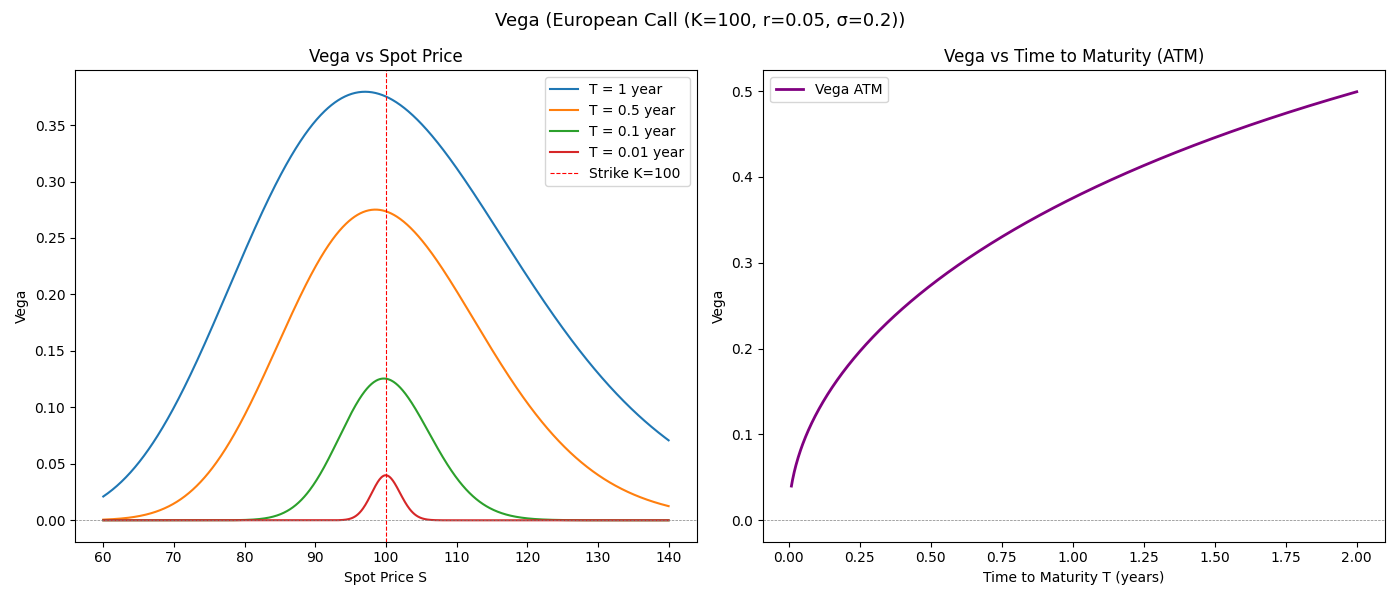
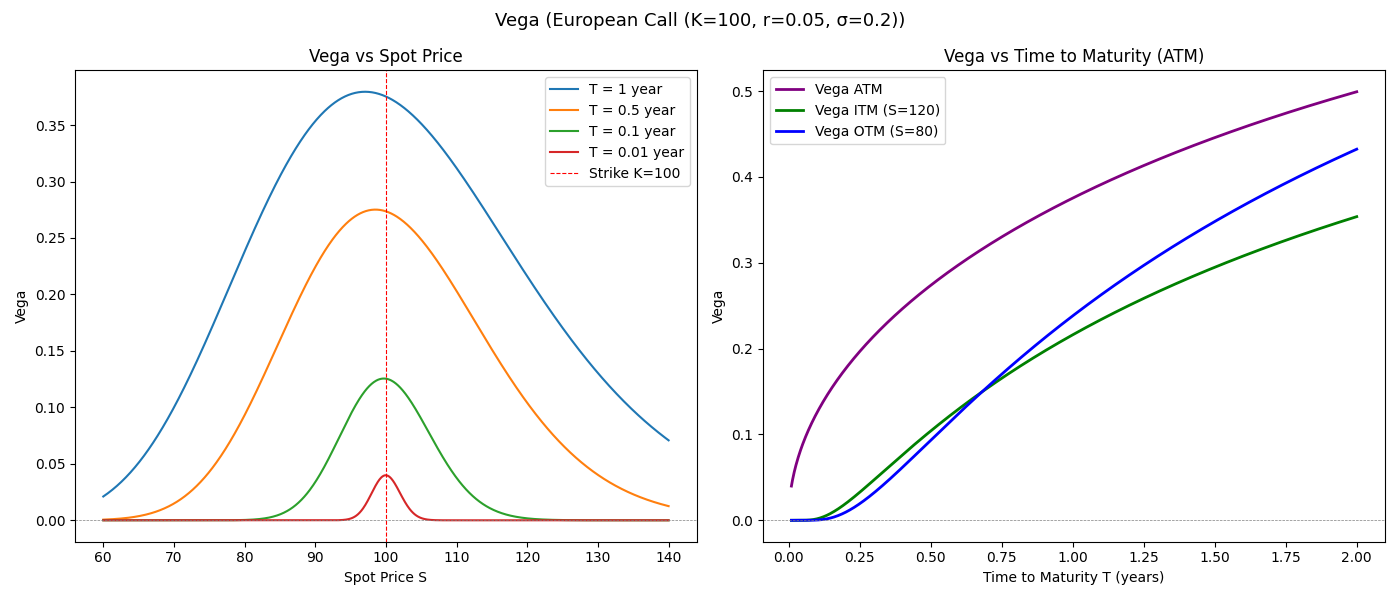
feat: implement Monte Carlo methods, terminal pricer, and documentation

diff --git a/Phase 1/src/monteCarlo.py b/Phase 1/src/monteCarlo.py
@@ -1,0 +1,206 @@
+from scipy.stats import norm
+import numpy as np
+import matplotlib.pyplot as plt
+from pathlib import Path
+
+from option import Option
+from pricer import BSModel
+
+REPORTS = Path(__file__).parent.parent / "reports"
+
+def mc_naive(opt : Option, n_paths : int = 100000) -> float:
+    """Monte Carlo pricer for European vanilla options."""
+    # Simulate terminal spot price
+    S_T = opt.S * np.exp((opt.r - 0.5 * opt.sigma ** 2) * opt.T + opt.sigma * np.sqrt(opt.T) * norm.rvs(size=n_paths))
+    # Compute payoff and discount
+    if opt.kind == 'call':
+        Discounted_payoff =np.exp(-opt.r * opt.T) * np.maximum(S_T - opt.K, 0)
+    else:
+        Discounted_payoff = np.exp(-opt.r * opt.T) * np.maximum(opt.K - S_T, 0)
+    return float(np.mean(Discounted_payoff)), np.std(Discounted_payoff)/ np.sqrt(n_paths)
+
+
+def mc_antithetic(opt : Option, n_paths : int = 100000) -> float:
+    """Monte Carlo pricer with antithetic variates."""
+    # Simulate terminal spot price
+    Z = norm.rvs(size=n_paths//2)
+    S_T1 = opt.S * np.exp((opt.r - 0.5 * opt.sigma ** 2) * opt.T + opt.sigma * np.sqrt(opt.T) * Z)
+    S_T2 = opt.S * np.exp((opt.r - 0.5 * opt.sigma ** 2) * opt.T - opt.sigma * np.sqrt(opt.T) * Z)
+    # Compute payoff and discount
+    if opt.kind == 'call':
+        Payoff1 = np.maximum(S_T1 - opt.K, 0)
+        Payoff2 = np.maximum(S_T2 - opt.K, 0)
+    else:
+        Payoff1 = np.maximum(opt.K - S_T1, 0)
+        Payoff2 = np.maximum(opt.K - S_T2, 0)
+    Discounted_payoff = np.exp(-opt.r * opt.T) * (Payoff1 + Payoff2) / 2
+    return float(np.mean(Discounted_payoff)), np.std(Discounted_payoff)/ np.sqrt(n_paths)
+
+def mc_control(opt : Option, n_paths : int = 100000) -> float:
+    """Monte Carlo pricer with control variates."""
+    # Simulate terminal spot price
+    S_T = opt.S * np.exp((opt.r - 0.5 * opt.sigma ** 2) * opt.T + opt.sigma * np.sqrt(opt.T) * norm.rvs(size=n_paths))
+    # Compute payoff and discount
+    if opt.kind == 'call':
+        Payoff = np.maximum(S_T - opt.K, 0)
+        Control = S_T
+        Control_mean = opt.S  
+    else:
+        Payoff = np.maximum(opt.K - S_T, 0)
+        Control = S_T
+        Control_mean = opt.S
+    # Compute control variate coefficient
+    cov = np.cov(Payoff, Control)[0][1]
+    var_control = np.var(Control)
+    beta = cov / var_control if var_control > 0 else 0
+    # Adjust payoff with control variate
+    Discounted_Adjusted_payoff = np.exp(-opt.r * opt.T) * Payoff - beta * (np.exp(-opt.r * opt.T) * Control - Control_mean)
+    return float(np.mean(Discounted_Adjusted_payoff)), np.std(Discounted_Adjusted_payoff)/ np.sqrt(n_paths)
+
+
+def mc_control_antithetic(opt : Option, n_paths : int = 100000) -> float:
+    """Monte Carlo pricer with control variates and antithetic variates."""
+    # Simulate terminal spot price
+    Z = norm.rvs(size=n_paths//2)
+    S_T1 = opt.S * np.exp((opt.r - 0.5 * opt.sigma ** 2) * opt.T + opt.sigma * np.sqrt(opt.T) * Z)
+    S_T2 = opt.S * np.exp((opt.r - 0.5 * opt.sigma ** 2) * opt.T - opt.sigma * np.sqrt(opt.T) * Z)
+    # Compute payoff and discount
+    if opt.kind == 'call':
+        Payoff1 = np.maximum(S_T1 - opt.K, 0)
+        Payoff2 = np.maximum(S_T2 - opt.K, 0)
+        Control1 = S_T1
+        Control2 = S_T2
+        Control_mean = opt.S  
+    else:
+        Payoff1 = np.maximum(opt.K - S_T1, 0)
+        Payoff2 = np.maximum(opt.K - S_T2, 0)
+        Control1 = S_T1
+        Control2 = S_T2
+        Control_mean = opt.S
+    # Compute control variate coefficient
+    Payoff_combined = (Payoff1 + Payoff2) / 2
+    Control_combined = (Control1 + Control2) / 2
+    cov = np.cov(Payoff_combined, Control_combined)[0][1]
+    var_control = np.var(Control_combined)
+    beta = cov / var_control if var_control > 0 else 0
+    # Adjust payoff with control variate
+    Discounted_Adjusted_payoff = np.exp(-opt.r * opt.T) * Payoff_combined - beta * (np.exp(-opt.r * opt.T) * Control_combined - Control_mean)
+    return float(np.mean(Discounted_Adjusted_payoff)), np.std(Discounted_Adjusted_payoff)/ np.sqrt(n_paths)
+
+if __name__ == "__main__":
+    opt = Option(S=100, K=100, T=1, r=0.05, sigma=0.2, kind='call')
+    n_paths = 100000
+
+    print(f"----------------- Naive Monte Carlo pricing with {n_paths} paths -----------------")
+    price, std_error = mc_naive(opt, n_paths)
+    print(f"Monte Carlo price: {price:.4f}")
+    print(f"Standard error: {std_error:.4f}")
+
+    # Compare with BSM price
+    model = BSModel()
+    bsm_price = model.price(opt)
+    print(f"BSM price: {bsm_price:.4f}")
+
+    # Difference
+    print(f"Difference: {abs(price - bsm_price):.4f}, Relative Difference: {abs(price - bsm_price)/bsm_price:.4%}")
+
+    # Standard error of the Monte Carlo estimate
+    for path in [1000, 10000, 100000, 1000000]:
+        price, std_error = mc_naive(opt, path)
+        print(f"Standard error of Monte Carlo estimate: {std_error:.4f}, with {path} paths")
+
+    # Plot the difference as we increase the number of paths
+    path_counts = [100, 500, 1000, 5000, 10000, 50000, 100000, 500000, 1000000, 5000000, 10000000]
+    mc_diffs = [abs(mc_naive(opt, n)[0] - bsm_price)/bsm_price *100 for n in path_counts]
+    plt.plot(path_counts, mc_diffs, marker='o', label='Monte Carlo difference')
+    plt.xscale('log')
+    plt.xlabel('Number of Paths')
+    plt.ylabel('Relative Difference from BSM Price (%)')
+    plt.title('Monte Carlo Price Convergence')
+    plt.legend()
+    plt.savefig(REPORTS / "monte_carlo_convergence_naive.png")
+    plt.show()
+
+
+    print(f"----------------- Antithetic Monte Carlo pricing with {n_paths} paths -----------------")
+    price, std_error = mc_antithetic(opt, n_paths)
+    print(f"Monte Carlo price: {price:.4f}")
+    print(f"Standard error: {std_error:.4f}")
+
+    # Compare with BSM price
+    print(f"BSM price: {bsm_price:.4f}")
+
+    # Difference
+    print(f"Difference: {abs(price - bsm_price):.4f}, Relative Difference: {abs(price - bsm_price)/bsm_price:.4%}")
+
+    # Standard error of the Monte Carlo estimate
+    for path in [1000, 10000, 100000, 1000000]:
+        price, std_error = mc_antithetic(opt, path)
+        print(f"Standard error of Monte Carlo estimate: {std_error:.4f}, with {path} paths")
+
+    # Plot the difference as we increase the number of paths
+    path_counts = [100, 500, 1000, 5000, 10000, 50000, 100000, 500000, 1000000, 5000000, 10000000]
+    mc_diffs = [abs(mc_antithetic(opt, n)[0] - bsm_price)/bsm_price *100 for n in path_counts]
+    plt.plot(path_counts, mc_diffs, marker='o', label='Monte Carlo difference')
+    plt.xscale('log')
+    plt.xlabel('Number of Paths')
+    plt.ylabel('Relative Difference from BSM Price (%)')
+    plt.title('Monte Carlo Price Convergence')
+    plt.legend()
+    plt.savefig(REPORTS / "monte_carlo_convergence_antithetic.png")
+    plt.show()
+
+
+    print(f"----------------- Control Variate Monte Carlo pricing with {n_paths} paths -----------------")
+    price, std_error = mc_control(opt, n_paths)
+    print(f"Monte Carlo price: {price:.4f}")
+    print(f"Standard error: {std_error:.4f}")
+    # Compare with BSM price
+    print(f"BSM price: {bsm_price:.4f}")
+
+    # Difference
+    print(f"Difference: {abs(price - bsm_price):.4f}, Relative Difference: {abs(price - bsm_price)/bsm_price:.4%}")
+
+    # Standard error of the Monte Carlo estimate
+    for path in [1000, 10000, 100000, 1000000]:
+        price, std_error = mc_control(opt, path)
+        print(f"Standard error of Monte Carlo estimate: {std_error:.4f}, with {path} paths")
+
+    # Plot the difference as we increase the number of paths
+    path_counts = [100, 500, 1000, 5000, 10000, 50000, 100000, 500000, 1000000, 5000000, 10000000]
+    mc_diffs = [abs(mc_control(opt, n)[0] - bsm_price)/bsm_price *100 for n in path_counts]
+    plt.plot(path_counts, mc_diffs, marker='o', label='Monte Carlo difference')
+    plt.xscale('log')
+    plt.xlabel('Number of Paths')
+    plt.ylabel('Relative Difference from BSM Price (%)')
+    plt.title('Monte Carlo Price Convergence')
+    plt.legend()
+    plt.savefig(REPORTS / "monte_carlo_convergence_control.png")
+    plt.show()
+
+    print(f"----------------- Control and Antithetic Variate Monte Carlo pricing with {n_paths} paths -----------------")
+    price, std_error = mc_control_antithetic(opt, n_paths)
+    print(f"Monte Carlo price: {price:.4f}")
+    print(f"Standard error: {std_error:.4f}")
+    # Compare with BSM price
+    print(f"BSM price: {bsm_price:.4f}")
+
+    # Difference
+    print(f"Difference: {abs(price - bsm_price):.4f}, Relative Difference: {abs(price - bsm_price)/bsm_price:.4%}")
+
+    # Standard error of the Monte Carlo estimate
+    for path in [1000, 10000, 100000, 1000000]:
+        price, std_error = mc_control_antithetic(opt, path)
+        print(f"Standard error of Monte Carlo estimate: {std_error:.4f}, with {path} paths")
+
+    # Plot the difference as we increase the number of paths
+    path_counts = [100, 500, 1000, 5000, 10000, 50000, 100000, 500000, 1000000, 5000000, 10000000]
+    mc_diffs = [abs(mc_control_antithetic(opt, n)[0] - bsm_price)/bsm_price *100 for n in path_counts]
+    plt.plot(path_counts, mc_diffs, marker='o', label='Monte Carlo difference')
+    plt.xscale('log')
+    plt.xlabel('Number of Paths')
+    plt.ylabel('Relative Difference from BSM Price (%)')
+    plt.title('Monte Carlo Price Convergence')
+    plt.legend()
+    plt.savefig(REPORTS / "monte_carlo_convergence_control_antithetic.png")
+    plt.show()

diff --git a/Phase 1/src/pricerTerminal.py b/Phase 1/src/pricerTerminal.py
@@ -1,0 +1,70 @@
+import argparse
+import sys
+from pathlib import Path
+
+sys.path.insert(0, str(Path(__file__).parent))
+
+from option import Option
+from pricer import BSModel
+
+
+def parse_args():
+    parser = argparse.ArgumentParser(
+        prog="pricer_terminal",
+        description="Pricing Engine — valorisation d'options européennes",
+        formatter_class=argparse.RawDescriptionHelpFormatter,
+        epilog="""
+        méthodes disponibles:
+        bs              Formule analytique Black-Scholes-Merton
+        mc-naive        Monte Carlo naïf
+        mc-antithetic   Monte Carlo avec variables antithétiques
+        mc-control               Monte Carlo avec variable de contrôle
+        mc-control-antithetic    Monte Carlo antithétique + variable de contrôle
+
+        exemples:
+        python pricer_terminal.py --S 100 --K 100 --T 1 --r 0.05 --sigma 0.2 --kind call
+        python pricer_terminal.py --S 100 --K 100 --T 1 --r 0.05 --sigma 0.2 --kind put --method mc-antithetic --n-paths 200000
+                """,
+    )
+
+    parser.add_argument("--S",       type=float, required=True, metavar="SPOT",   help="Prix spot du sous-jacent")
+    parser.add_argument("--K",       type=float, required=True, metavar="STRIKE", help="Prix d'exercice")
+    parser.add_argument("--T",       type=float, required=True, metavar="YEARS",  help="Maturité en années (ex: 0.5, 1)")
+    parser.add_argument("--r",       type=float, required=True, metavar="RATE",   help="Taux sans risque continu (ex: 0.05)")
+    parser.add_argument("--sigma",   type=float, required=True, metavar="VOL",    help="Volatilité annualisée (ex: 0.2)")
+    parser.add_argument("--kind",    type=str,   required=True, choices=["call", "put"])
+    parser.add_argument("--method",  type=str,   default="bs",
+                        choices=["bs", "mc-naive", "mc-antithetic", "mc-control", "mc-control-antithetic"],
+                        help="Méthode de pricing (défaut: bs)")
+    parser.add_argument("--n-paths", type=int,   default=100_000, metavar="N",   help="Nombre de trajectoires MC (défaut: 100000)")
+
+    return parser.parse_args()
+
+
+if __name__ == "__main__":
+    args = parse_args()
+    opt  = Option(S=args.S, K=args.K, T=args.T, r=args.r, sigma=args.sigma, kind=args.kind)
+
+    if args.method == "bs":
+        price = BSModel().price(opt)
+        print(f"BS Price ({args.kind}): {price:.6f}")
+
+    elif args.method == "mc-naive":
+        from monteCarlo import mc_naive
+        price = mc_naive(opt, n_paths=args.n_paths)
+        print(f"MC Naive ({args.kind}, n={args.n_paths:,}): {price:.6f}")
+
+    elif args.method == "mc-antithetic":
+        from monteCarlo import mc_antithetic
+        price = mc_antithetic(opt, n_paths=args.n_paths)
+        print(f"MC Antithetic ({args.kind}, n={args.n_paths:,}): {price:.6f}")
+
+    elif args.method == "mc-control":
+        from monteCarlo import mc_control
+        price = mc_control(opt, n_paths=args.n_paths)
+        print(f"MC Control Variate ({args.kind}, n={args.n_paths:,}): {price:.6f}")
+
+    elif args.method == "mc-control-antithetic":
+        from monteCarlo import mc_control_antithetic
+        price = mc_control_antithetic(opt, n_paths=args.n_paths)
+        print(f"MC Control + Antithetic ({args.kind}, n={args.n_paths:,}): {price:.6f}")

diff --git a/Phase 1/src/greeks.py b/Phase 1/src/greeks.py
@@ -8,6 +8,7 @@ from option import Option
 REPORTS = Path(__file__).parent.parent / "reports"
 
 TRADING_DAYS = 252
+DAYS_IN_YEAR = 365
 
 class BSGreeks:
     def __init__(self, option: Option):
@@ -35,11 +36,11 @@ class BSGreeks:
         d1 = self._d1(self.opt.S, self.opt.K, self.opt.T, self.opt.r, self.opt.sigma)
         d2 = d1 - self.opt.sigma * np.sqrt(self.opt.T)
         if self.opt.kind == 'call':
-            return (-self.opt.S * norm.pdf(d1) * self.opt.sigma / (2 * np.sqrt(self.opt.T)) 
-                    - self.opt.r * self.opt.K * np.exp(-self.opt.r * self.opt.T) * norm.cdf(d2)) / TRADING_DAYS
+            return ((-self.opt.S * norm.pdf(d1) * self.opt.sigma) / (2 * np.sqrt(self.opt.T)) 
+                    - self.opt.r * self.opt.K * np.exp(-self.opt.r * self.opt.T) * norm.cdf(d2)) / DAYS_IN_YEAR
         else:
             return (-self.opt.S * norm.pdf(d1) * self.opt.sigma / (2 * np.sqrt(self.opt.T)) 
-                    + self.opt.r * self.opt.K * np.exp(-self.opt.r * self.opt.T) * norm.cdf(-d2)) / TRADING_DAYS
+                    + self.opt.r * self.opt.K * np.exp(-self.opt.r * self.opt.T) * norm.cdf(-d2)) / DAYS_IN_YEAR
         
     def rho(self) -> float:
         d1 = self._d1(self.opt.S, self.opt.K, self.opt.T, self.opt.r, self.opt.sigma)
@@ -154,6 +155,8 @@ if __name__ == "__main__":
 
     T_range = np.linspace(0.01, 2, 1000)
     vegas_ATM = [BSGreeks(Option(S=100, K=100, T=t, r=0.05, sigma=0.2, kind='call')).vega() for t in T_range]
+    vegas_ITM = [BSGreeks(Option(S=120, K=100, T=t, r=0.05, sigma=0.2, kind='call')).vega() for t in T_range]
+    vegas_OTM = [BSGreeks(Option(S=80, K=100, T=t, r=0.05, sigma=0.2, kind='call')).vega() for t in T_range]
 
     fig, axes = plt.subplots(1, 2, figsize=(14, 6))
 
@@ -171,6 +174,8 @@ if __name__ == "__main__":
 
     # --- Plot 2: Vega vs T (ATM) ---
     axes[1].plot(T_range, vegas_ATM, color='purple', lw=2, label='Vega ATM')
+    axes[1].plot(T_range, vegas_ITM, color='green', lw=2, label='Vega ITM (S=120)')
+    axes[1].plot(T_range, vegas_OTM, color='blue', lw=2, label='Vega OTM (S=80)')
     axes[1].axhline(0, color='grey', lw=0.5, ls='--')
     axes[1].set_title('Vega vs Time to Maturity (ATM)')
     axes[1].set_xlabel('Time to Maturity T (years)')
@@ -194,6 +199,8 @@ if __name__ == "__main__":
 
     T_range_theta = np.linspace(0.01, 2, 1000)
     thetas_ATM = [BSGreeks(Option(S=100, K=100, T=t, r=0.05, sigma=0.2, kind='call')).theta() for t in T_range_theta]
+    theta_ITM = [BSGreeks(Option(S=120, K=100, T=t, r=0.05, sigma=0.2, kind='call')).theta() for t in T_range_theta]
+    theta_OTM = [BSGreeks(Option(S=80, K=100, T=t, r=0.05, sigma=0.2, kind='call')).theta() for t in T_range_theta]
 
     fig, axes = plt.subplots(1, 2, figsize=(14, 6))
 
@@ -211,6 +218,8 @@ if __name__ == "__main__":
 
     # --- Plot 2: Theta vs T (ATM) ---
     axes[1].plot(T_range_theta, thetas_ATM, color='orange', lw=2, label='Theta ATM')
+    axes[1].plot(T_range_theta, theta_ITM, color='green', lw=2, label='Theta ITM (S=120)')
+    axes[1].plot(T_range_theta, theta_OTM, color='blue', lw=2, label='Theta OTM (S=80)')
     axes[1].axhline(0, color='grey', lw=0.5, ls='--')
     axes[1].set_title('Theta vs Time to Maturity (ATM)')
     axes[1].set_xlabel('Time to Maturity T (years)')
@@ -235,6 +244,8 @@ if __name__ == "__main__":
 
     r_range = np.linspace(0, 0.2, 1000)
     rhos_ATM = [BSGreeks(Option(S=100, K=100, T=1, r=r, sigma=0.2, kind='call')).rho() for r in r_range]
+    rhos_ITM = [BSGreeks(Option(S=120, K=100, T=1, r=r, sigma=0.2, kind='call')).rho() for r in r_range]
+    rhos_OTM = [BSGreeks(Option(S=80, K=100, T=1, r=r, sigma=0.2, kind='call')).rho() for r in r_range]
 
     fig, axes = plt.subplots(1, 2, figsize=(14, 6))
 
@@ -252,6 +263,8 @@ if __name__ == "__main__":
 
     # --- Plot 2: Rho vs r (ATM) ---
     axes[1].plot(r_range * 100, rhos_ATM, color='steelblue', lw=2, label='Rho ATM')
+    axes[1].plot(r_range * 100, rhos_ITM, color='green', lw=2, label='Rho ITM (S=120)')
+    axes[1].plot(r_range * 100, rhos_OTM, color='blue', lw=2, label='Rho OTM (S=80)')
     axes[1].axhline(0, color='grey', lw=0.5, ls='--')
     axes[1].set_title('Rho vs Risk-Free Rate (ATM)')
     axes[1].set_xlabel('Risk-Free Rate r (%)')